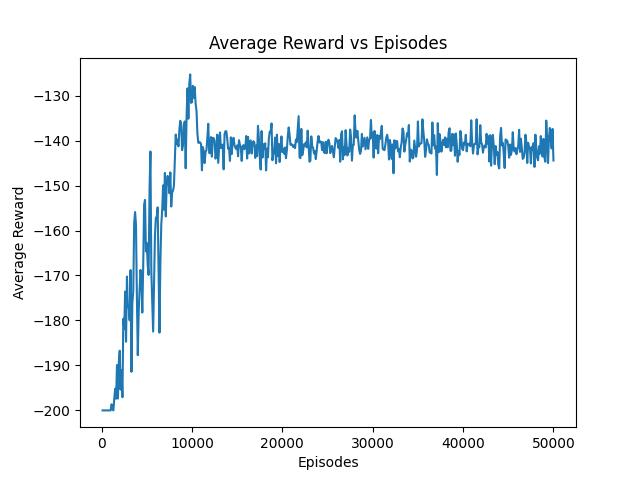
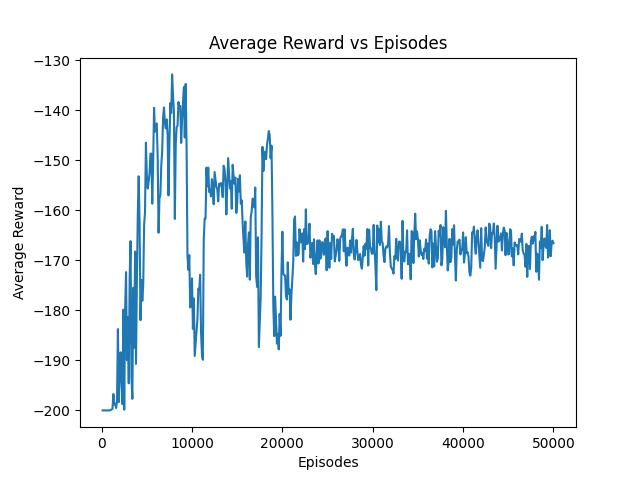
testando novos hiperparametros

diff --git a/src/parte5/MountainCar.py b/src/parte5/MountainCar.py
@@ -15,7 +15,7 @@ print('Action space: ', env.action_space)
 print(env.observation_space.low)
 print(env.observation_space.high)
 
-qlearn = QLearningBox(env, 0.1, 0.9, 0.8, 0, 0.999, 1000)
+qlearn = QLearningBox(env, 0.1, 0.9, 0.8, 0, 0.999, 50000)
 qtable = qlearn.train('data/q-table-mountain-car.csv', 'results/rewards_MountainCar-v0')
 
 state = env.reset()
